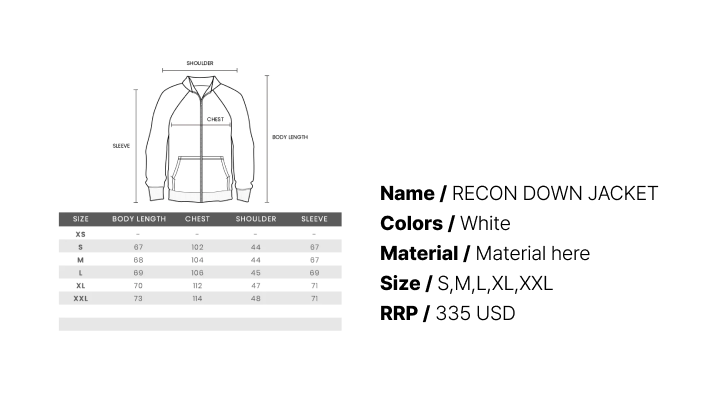
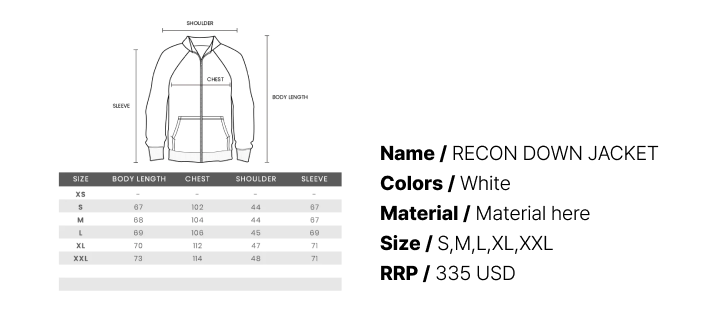
img

diff --git a/micropage/stylec.css b/micropage/stylec.css
@@ -27,7 +27,6 @@ font-size: 24px;
 
 .imagecontainer{
     width: 100%;
-    height: 30vh;
 }
 img{
     width: 100%;
